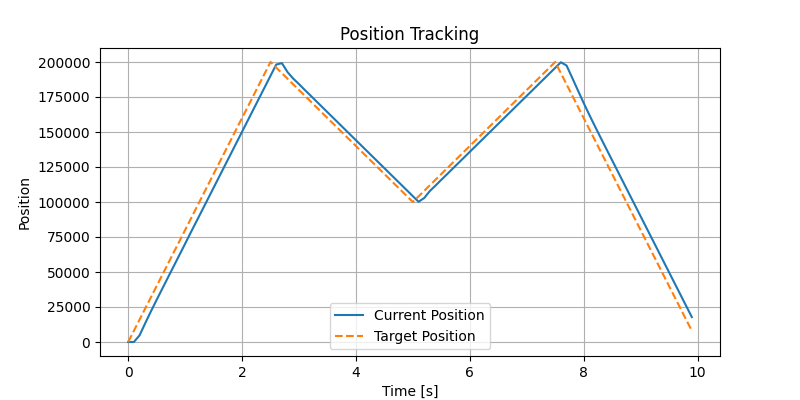
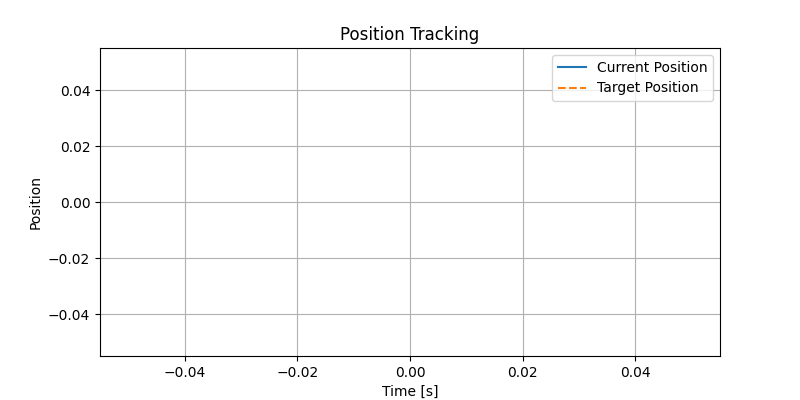
initial jointing

diff --git a/run.py b/run.py
@@ -123,6 +123,76 @@ def SetServoOn(nBdID: int) -> bool:
     return True
 
 
+
+
+def MoveAbsPos(nBdID: int, nAbsPos, nVelocity) -> bool:
+
+	#~~~~~~~~~~~~~~~~~~~~~~~~~~~~~~~~~~~~~~~~~~~~~~~~~~~~~~~~~~~~~~~~~~~~~
+	#~~ In this function,												~~
+	#~~ please modify the value depending on the product you are using.	~~
+	#~~~~~~~~~~~~~~~~~~~~~~~~~~~~~~~~~~~~~~~~~~~~~~~~~~~~~~~~~~~~~~~~~~~~~
+    
+    # Move AxisAbsPos
+
+    # Move the motor by 0 pulse (target position: Absolute position)
+   
+
+    print("---------------------------")
+    print("[Abs Mode] Move Motor!")
+
+    if FAS_MoveSingleAxisAbsPos(nBdID, nAbsPos, nVelocity) != FMM_OK:
+        print("Function(FAS_MoveSingleAxisAbsPos) was failed.")
+        return False
+
+    # Check the Axis status until motor stops and the Inposition value is checked
+    while True:
+        time.sleep(0.001)
+        status_result, axis_status = FAS_GetAxisStatus(nBdID)
+        if status_result != FMM_OK:
+            print("Function(FAS_GetAxisStatus) was failed.")
+            return False
+
+        if not (axis_status & EZISERVO2_AXISSTATUS.FFLAG_MOTIONING) and (
+            axis_status & EZISERVO2_AXISSTATUS.FFLAG_INPOSITION
+        ):
+            break
+
+    return True
+
+def SetServoOff(nBdID: int) -> bool:
+    """
+    Turn servo OFF for the given board ID.
+    """
+
+    # 현재 축 상태 읽기
+    status_result, axis_status = FAS_GetAxisStatus(nBdID)
+    if status_result != FMM_OK:
+        print("Function(FAS_GetAxisStatus) failed.")
+        return False
+
+    # Servo가 켜져 있으면 끄기
+    if (axis_status & EZISERVO2_AXISSTATUS.FFLAG_SERVOON) != 0:
+        # Servo Disable
+        if FAS_ServoEnable(nBdID, 0) != FMM_OK:
+            print("Function(FAS_ServoEnable) failed.")
+            return False
+
+        # OFF 될 때까지 대기
+        while (axis_status & EZISERVO2_AXISSTATUS.FFLAG_SERVOON) != 0:
+            time.sleep(0.001)
+            status_result, axis_status = FAS_GetAxisStatus(nBdID)
+            if status_result != FMM_OK:
+                print("Function(FAS_GetAxisStatus) failed.")
+                return False
+
+            if (axis_status & EZISERVO2_AXISSTATUS.FFLAG_SERVOON) == 0:
+                print("Servo OFF")
+
+    else:
+        print("Servo is already OFF")
+
+    return True
+
 def SetOriginParameter(nBdID: int) -> bool:
 
 	#~~~~~~~~~~~~~~~~~~~~~~~~~~~~~~~~~~~~~~~~~~~~~~~~~~~~~~~~~~~~~~~~~~~~~
@@ -135,9 +205,9 @@ def SetOriginParameter(nBdID: int) -> bool:
     nOrgSearchSpeed = 50000
     nOrgAccDecTime = 50
     nOrgMethod = (
-        0  # Origin Method = 2 is 'Limit Origin' in the Ezi-SERVOII Plus-E model
+        2  # Origin Method = 2 is 'Limit Origin' in the Ezi-SERVOII Plus-E model
     )
-    nOrgDir = CW
+    nOrgDir = CCW
     nOrgOffset = 0
     nOrgPositionSet = 0
     nOrgTorqueRatio = 50
@@ -173,7 +243,7 @@ def SetOriginParameter(nBdID: int) -> bool:
     if FAS_SetParameter(nBdID, SERVO2_ORGTORQUERATIO, nOrgTorqueRatio) != FMM_OK:
         print("Function(FAS_SetParameter[SERVO2_ORGTORQUERATIO]) was failed.")
         return False
-
+    print("origin paramenter set successfully")
     return True
 
 
@@ -249,116 +319,8 @@ def updateAbsPos(nBdID: int, targetAbsPos: int) -> bool:
 
 
 
-
-
-
-# def MoveAbsPos(nBdID: int, targetAbsPos: int) -> bool:
-
-# 	#~~~~~~~~~~~~~~~~~~~~~~~~~~~~~~~~~~~~~~~~~~~~~~~~~~~~~~~~~~~~~~~~~~~~~
-# 	#~~ In this function,												~~
-# 	#~~ please modify the value depending on the product you are using.	~~
-# 	#~~~~~~~~~~~~~~~~~~~~~~~~~~~~~~~~~~~~~~~~~~~~~~~~~~~~~~~~~~~~~~~~~~~~~
-    
-#     # Move AxisAbsPos
-
-#     # Move the motor by 0 pulse (target position: Absolute position)
-#     nAbsPos = targetAbsPos
-#     nVelocity = MTSPEED
-
-#     print("---------------------------")
-#     print("[Abs Mode] Move Motor!")
-
-#     if FAS_MoveSingleAxisAbsPos(nBdID, nAbsPos, nVelocity) != FMM_OK:
-#         print("Function(FAS_MoveSingleAxisAbsPos) was failed.")
-#         return False
-
-#     # Check the Axis status until motor stops and the Inposition value is checked
-#     while True:
-#         time.sleep(0.001)
-#         status_result, axis_status = FAS_GetAxisStatus(nBdID)
-#         if status_result != FMM_OK:
-#             print("Function(FAS_GetAxisStatus) was failed.")
-#             return False
-
-#         if not (axis_status & EZISERVO2_AXISSTATUS.FFLAG_MOTIONING) and (
-#             axis_status & EZISERVO2_AXISSTATUS.FFLAG_INPOSITION
-#         ):
-#             break
-
-#     return True
-
-
-# def PosAbsOvrride(nBdID: int) -> bool:
-
-# 	#~~~~~~~~~~~~~~~~~~~~~~~~~~~~~~~~~~~~~~~~~~~~~~~~~~~~~~~~~~~~~~~~~~~~~
-# 	#~~ In this function,												~~
-# 	#~~ please modify the value depending on the product you are using.	~~
-# 	#~~~~~~~~~~~~~~~~~~~~~~~~~~~~~~~~~~~~~~~~~~~~~~~~~~~~~~~~~~~~~~~~~~~~~
-    
-#     # Move AxisAbsPos & PositionAbsOverride
-#     lVelocity = 40000
-#     lIncEndPos = 0
-#     lActualPos = 0
-#     lAbsPos = 0
-#     lChangePos = 0
-
-#     status_result, lIncEndPos = FAS_GetActualPos(nBdID)
-#     if status_result != FMM_OK:
-#         print("Function(FAS_GetActualPos) was failed.")
-#         return False
-
-#     print("---------------------------")
-
-#     # 1. Move Command
-#     # Move the motor by ((lIncEndPos)* 1/ 4) pulse (target position : Absolute position)
-#     lAbsPos = lIncEndPos // 4
-
-#     if FAS_MoveSingleAxisAbsPos(nBdID, lAbsPos, lVelocity) != FMM_OK:
-#         print("Function(FAS_MoveSingleAxisAbsPos) was failed.")
-#         return False
-#     print("[ABS Mode] Move Motor Start!")
-
-#     # 2. Check Condition
-#     # Check current position
-#     while True:
-#         time.sleep(0.001)
-
-#         status, lActualPos = FAS_GetActualPos(nBdID)
-#         if status != FMM_OK:
-#             print("Function(FAS_GetActualPos) was failed.")
-#             break
-
-#         if lActualPos < (lIncEndPos / 2):
-#             break
-
-#     # 3. Change Position
-#     # if the current position falls below half the INC End position, change the target position to zero.
-#     lChangePos = 400000
-#     if FAS_PositionAbsOverride(nBdID, lChangePos) != FMM_OK:
-#         print("Function(FAS_PositionAbsOverride) was failed.")
-#         return False
-#     else:
-#         print(
-#             "Before Target Position: %d[pulse] / Change Target Position: %d[pulse]"
-#             % (lAbsPos, lChangePos)
-#         )
-
-#     # 4. Confirm Move Complete
-#     # Check the Axis status until motor stops and the Inposition value is checked
-#     while True:
-#         time.sleep(0.001)
-#         status_result, axis_status = FAS_GetAxisStatus(nBdID)
-#         if status_result != FMM_OK:
-#             print("Function(FAS_GetAxisStatus) was failed.")
-#             return False
-
-#         if not (axis_status & EZISERVO2_AXISSTATUS.FFLAG_MOTIONING) and (
-#             axis_status & EZISERVO2_AXISSTATUS.FFLAG_INPOSITION
-#         ):
-#             break
-
-#     return True
 def calculateTargetAbsPositionAtTime(t:float) -> float:
+    return 10000
 
     # max_pos = 200000
     match t:
@@ -389,65 +351,124 @@ def plotChart(times,targetPositions,currentPositions):
     plt.show()
     plt.savefig("logs/plot_position.png")
 
+
+
+
+def checkConnection(nBdIDPosition,ipPosition,nBdIDAngular,ipAngular):
+    
+
+    # Device Connect
+    if not Connect(TCP, nBdIDPosition,ipPosition) or not Connect(TCP, nBdIDAngular, ipAngular):
+        return False
+
+    # Drive Error Check
+    if not CheckDriveErr(nBdIDPosition) or not CheckDriveErr(nBdIDAngular):
+        input("Press Enter to exit...")
+        return False
+
+    # ServoOn
+    if not SetServoOn(nBdIDPosition) or not SetServoOn(nBdIDAngular):
+        input("Press Enter to exit...")
+        return False
+
+    return True
+
+def initializePositionMotor(nBdIDPosition):
+    
+       # Set Origin Parameter
+    if not SetOriginParameter(nBdIDPosition):
+       return False
+
+    # Act Origin Search Function
+    if not OriginSearch(nBdIDPosition):
+        input("Press Enter to exit...")
+        return False
+    return True
+
+def exitProcess(nBdIDPosition,nBdIDAngular):
+    SetServoOff(nBdIDPosition)
+    SetServoOff(nBdIDAngular)
+    FAS_Close(nBdIDPosition)
+    FAS_Close(nBdIDAngular)
+    exit(1)
+
+def initialJointing(nBdIDPosition,nBdIDAngular,positionMotorInitialLocation,angularMotorInitialJointingSpeed):
+
+    if FAS_MoveVelocity(nBdIDAngular,angularMotorInitialJointingSpeed,CW) != FMM_OK:
+        print("ang motor can not rotate")
+        return False
+    
+    if not MoveAbsPos(nBdID=nBdIDPosition, nAbsPos=positionMotorInitialLocation, nVelocity=MTSPEED):
+    # if FAS_MoveSingleAxisAbsPos(nBdIDPosition,positionMotorInitialLocation,MTSPEED) != FMM_OK:
+        return False
+    if  FAS_MoveStop(nBdIDAngular) != FMM_OK:
+        print("cancel failed")
+        return False
+    return True
+
+
+
 def main():
+
     nBdIDPosition = 0
     ipPosition = [192,168,0,3]
     nBdIDAngular = 1
     ipAngular = [192,168,0,2]
+
+    positionMotorInitialLocation = 268000
+    angularMotorInitialJointingSpeed = 2000
+
     currentTime = 0
     dt = 0.1
     currentPositions = []
     targetPositions = []
     times = []
 
-    # Device Connect
-    if not Connect(TCP, nBdIDPosition,ipPosition) or not Connect(TCP, nBdIDAngular, ipAngular):
-        input("Press Enter to exit...")
-        exit(1)
+    if not checkConnection(nBdIDPosition=nBdIDPosition,ipPosition=ipPosition,nBdIDAngular=nBdIDAngular,ipAngular=ipAngular, ):
+        input("motor/driver connection check failed")
+        exitProcess(nBdIDPosition,nBdIDAngular)
 
-    # Drive Error Check
-    if not CheckDriveErr(nBdIDPosition) or not CheckDriveErr(nBdIDAngular):
-        input("Press Enter to exit...")
-        exit(1)
+    if not initializePositionMotor(nBdIDPosition=nBdIDPosition):
+        input("position motor initialization failed.")
+        exitProcess(nBdIDPosition,nBdIDAngular)
 
-    # ServoOn
-    if not SetServoOn(nBdIDPosition) or not SetServoOn(nBdIDAngular):
-        input("Press Enter to exit...")
-        exit(1)
+    if not initialJointing(nBdIDPosition=nBdIDPosition,
+                           nBdIDAngular=nBdIDAngular,
+                            positionMotorInitialLocation= positionMotorInitialLocation,
+                            angularMotorInitialJointingSpeed= angularMotorInitialJointingSpeed):
+        input("initialJointing failed")
+        exitProcess(nBdIDPosition,nBdIDAngular)
+    # time.sleep(5)
+
 
     
-       # Set Origin Parameter
-    if not SetOriginParameter(nBdIDPosition)or not SetOriginParameter(nBdIDAngular):
-        input("Press Enter to exit...")
-        exit(1)
 
-    # Act Origin Search Function
-    if not OriginSearch(nBdID):
-        input("Press Enter to exit...")
-        exit(1)
 
         
 
     # Move AxisAbsPos & PositionAbsOverride
     
-    for i in range(0,100):
+    # for i in range(0,20):
 
-        targetAbsPos = round(calculateTargetAbsPositionAtTime(t=currentTime))
+    #     targetAbsPos = round(calculateTargetAbsPositionAtTime(t=currentTime))
 
-        if not updateAbsPos(nBdID,targetAbsPos=targetAbsPos):
-            input("updated failed: Press Enter to exit...")
-            exit(1)
-        times.append(currentTime)
-        currentPosition = getCurrentPosition(nBdID)
-        currentPositions.append(currentPosition)
-        targetPositions.append(targetAbsPos)
+    #     if not updateAbsPos(nBdIDPosition,targetAbsPos=targetAbsPos):
+    #         input("updated failed: Press Enter to exit...")
+    #         exit(1)
+    #     times.append(currentTime)
+    #     currentPosition = getCurrentPosition(nBdIDPosition)
+    #     currentPositions.append(currentPosition)
+    #     targetPositions.append(targetAbsPos)
 
-        currentTime += dt
-        time.sleep(dt)
+    #     currentTime += dt
+    #     time.sleep(dt)
 
     # Connection Close
     print("fas close called")
-    FAS_Close(nBdID)
+    SetServoOff(nBdIDPosition)
+    SetServoOff(nBdIDAngular)
+    FAS_Close(nBdIDPosition)
+    FAS_Close(nBdIDAngular)
     plotChart(times,targetPositions,currentPositions)
 
 
